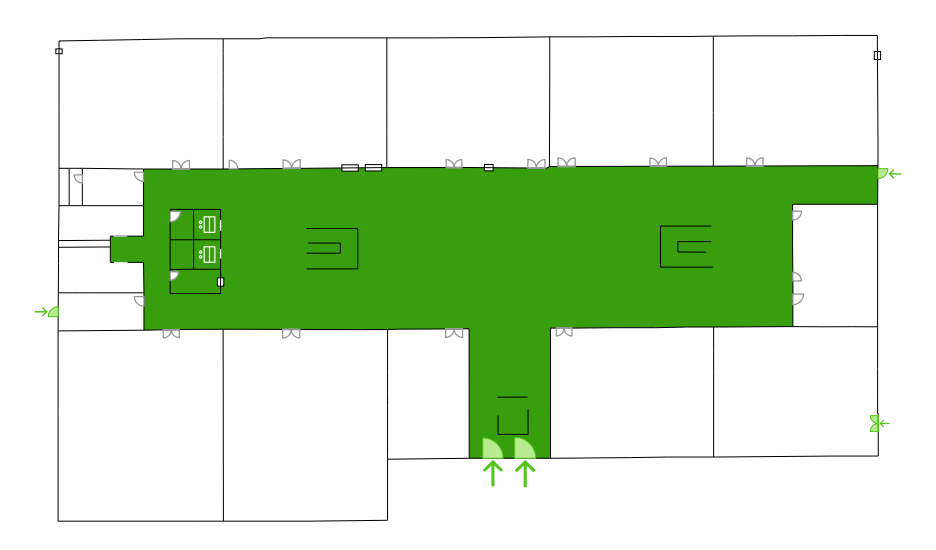
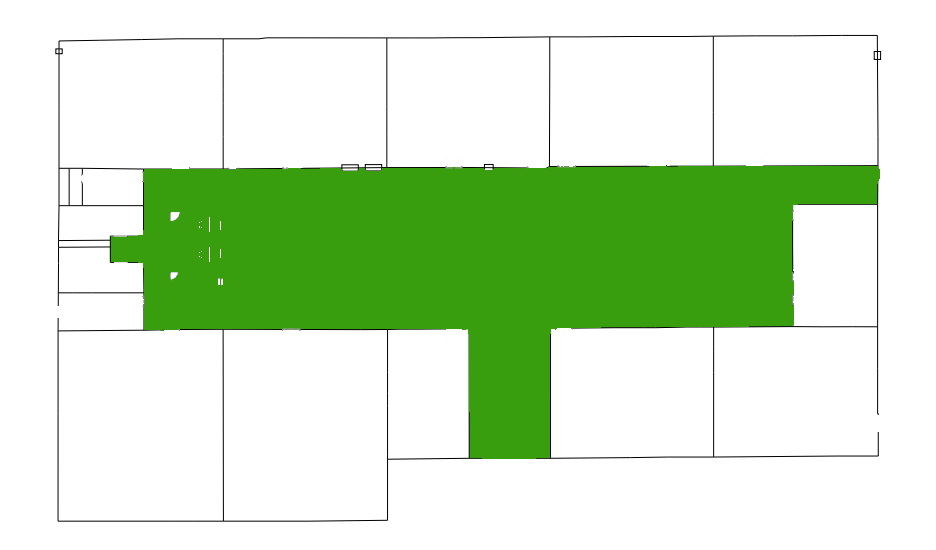
building

diff --git a/app/(kiosk)/building-directory/building-directory-interactive.tsx b/app/(kiosk)/building-directory/building-directory-interactive.tsx
@@ -6,6 +6,7 @@ import { IndoorKioskMap } from "@/components/indoor-map/indoor-kiosk-map";
 import { useBuildingNavigation } from "@/hooks/use-building-navigation";
 import { pickBuildingUiConfig } from "@/features/building-directory/page-data";
 import { getNodeByLocationId } from "@/features/building-directory/navigation/demo-graph";
+import { isNavigableLocation } from "@/features/building-directory/navigation/graph-helpers";
 import {
   findLocationById,
   getLocationDisplay,
@@ -86,10 +87,11 @@ export function BuildingDirectoryInteractive({
 
   const handleStartNavigation = useCallback(
     (locationId: string, name: string, accessible: boolean) => {
+      if (!isNavigableLocation(navigationGraph, locationId)) return;
       setHighlightLocationId(locationId);
       setNavTarget({ locationId, name, accessible });
     },
-    []
+    [navigationGraph]
   );
 
   const handleLocationClick = useCallback(
@@ -101,6 +103,7 @@ export function BuildingDirectoryInteractive({
         setPickedLabel(label ?? null);
         return;
       }
+      if (!isNavigableLocation(navigationGraph, locationId)) return;
       const location = findLocationById(locations, locationId);
       const name =
         label?.trim() ||
@@ -111,7 +114,7 @@ export function BuildingDirectoryInteractive({
       setPickedLabel(null);
       handleStartNavigation(locationId, name, false);
     },
-    [handleStartNavigation, language, locations, uiConfig.kioskLocation.locationId]
+    [handleStartNavigation, language, locations, navigationGraph, uiConfig.kioskLocation.locationId]
   );
 
   const handleCloseNavigation = useCallback(() => {

diff --git a/components/kiosk/building-3d-scene.tsx b/components/kiosk/building-3d-scene.tsx
@@ -30,6 +30,7 @@ import {
   type KioskLocationConfig,
 } from "@/features/building-directory/navigation/building-3d";
 import { resolveFloorRouteProgress } from "@/features/building-directory/navigation/routing-engine";
+import { isNavigationDestination } from "@/features/building-directory/navigation/graph-helpers";
 import { localizePlaceLabel } from "@/features/building-directory/location-display";
 import { pickLang, type Language } from "@/lib/i18n/translations";
 import {
@@ -895,7 +896,7 @@ export function Building3DScene({
           (!!highlightLocationId && node.locationId === highlightLocationId);
         const pos = map2DToFloorPlan3D(node.x, node.y, graph, viewFloor);
         const handleClick =
-          node.locationId && onLocationClick
+          node.locationId && onLocationClick && (isNavigationDestination(node) || node.type === "landmark")
             ? () => locationClickRef.current?.(node.locationId!, node.floor, node.label)
             : undefined;
 

diff --git a/features/building-directory/navigation/graph-helpers.ts b/features/building-directory/navigation/graph-helpers.ts
@@ -7,6 +7,22 @@ export function getNodeByLocationId(
   return graph.nodes.find((n) => n.locationId === locationId);
 }
 
+const RESTROOM_PATTERN = /comfort[-_ ]?room|restroom|toilet/i;
+
+/** Only offices and comfort rooms can be navigation destinations — never elevators or stairs. */
+export function isNavigationDestination(node: NavNode | undefined | null): boolean {
+  if (!node) return false;
+  if (node.type === "room") return true;
+  if (node.type === "facility") {
+    return RESTROOM_PATTERN.test(`${node.locationId ?? ""} ${node.label}`);
+  }
+  return false;
+}
+
+export function isNavigableLocation(graph: NavigationGraph, locationId: string): boolean {
+  return isNavigationDestination(getNodeByLocationId(graph, locationId));
+}
+
 export function getRoomNodesForFloor(graph: NavigationGraph, floor: number): NavNode[] {
   return graph.nodes.filter(
     (n) => n.floor === floor && (n.type === "room" || n.type === "facility")

diff --git a/features/building-directory/navigation/capitol-ground-graph.ts b/features/building-directory/navigation/capitol-ground-graph.ts
@@ -1,7 +1,7 @@
 import type { FloorPlanConfig, NavigationGraph, NavEdge, NavNode } from "./types";
 
-export const CAPITOL_GROUND_FLOOR_PLAN_URL = "/images/indoor-plans/capitol-ground-floor.png?v=2";
-export const CAPITOL_UPPER_FLOOR_PLAN_URL = "/images/indoor-plans/capitol-upper-floor.png?v=3";
+export const CAPITOL_GROUND_FLOOR_PLAN_URL = "/images/indoor-plans/capitol-ground-floor.png?v=4";
+export const CAPITOL_UPPER_FLOOR_PLAN_URL = "/images/indoor-plans/capitol-upper-floor.png?v=5";
 export const CAPITOL_GROUND_FLOOR_WIDTH = 936;
 export const CAPITOL_GROUND_FLOOR_HEIGHT = 550;
 
